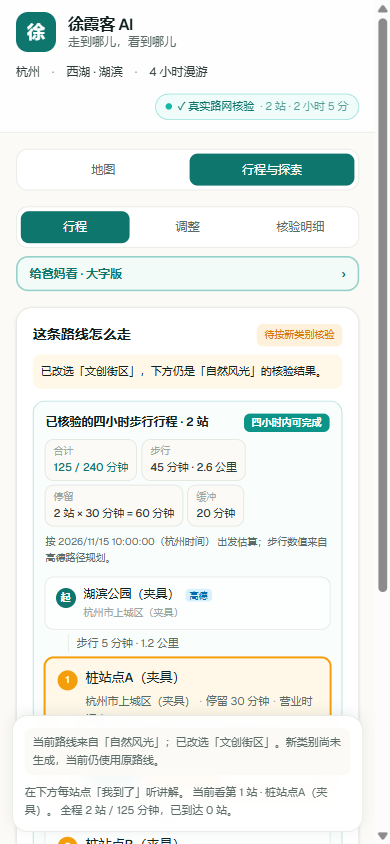
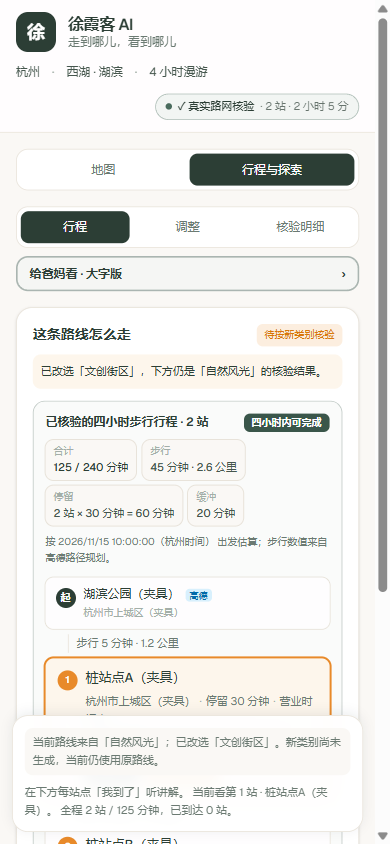
Restyle to a warm new-Chinese palette and turn the two limits into stamina meters
Colours move to rice-white paper (#FAF8F5), dai-green ink (#2C3E35) and a single
warm amber reserved for warnings — the old teal read as a generic SaaS accent
rather than something you would hand to a parent.

The adjust page no longer makes people guess from a row of presets. Two meters
now answer "how much of the budget is left" at a glance: total walking time and
the longest single stretch, each with a progress bar, the used/limit pair, and a
plain sentence. Bars only render when a limit exists — an unset limit shows a
dashed empty track instead of a misleading full bar, which is what the first
build did wrong.

Debug and data-source panels are gone from the product entirely, and the
LIVE/MOCK badges are reworded to plain Chinese; the third tab keeps only the
verification trail.

Expanded the zero-paid browser suite to 39 checks, all passing, including the
meter's presence and its no-limit behaviour.

diff --git a/src/components/StaminaMeter.tsx b/src/components/StaminaMeter.tsx
@@ -1,0 +1,132 @@
+"use client";
+
+/**
+ * 爸妈体力评估器。
+ *
+ * 把两条步行约束画成「预算 vs 已用」的进度条，而不是让人从一堆档位里猜：
+ *   - 全程：这一趟所有步行时间加起来，是否超过说的上限；
+ *   - 单段：两站之间最长的那一段，是否超过一口气能走的距离。
+ *
+ * 两个数都来自服务端实测；这里只做「用了几成」的可视化，
+ * 不自己比较超没超（超没超由服务端判定后传进来）。
+ */
+
+interface MeterProps {
+  label: string;
+  /** 一句话解释这条量的是什么 */
+  hint: string;
+  /** 当前值，单位由 unit 决定 */
+  used: number;
+  /** 上限；null 表示没设 */
+  limit: number | null;
+  unit: "分钟" | "米";
+  /** 超过上限 */
+  over: boolean;
+  /** 没用满时的一句人话 */
+  okText: string;
+  /** 超出时的一句人话 */
+  overText: string;
+}
+
+function Meter({ label, hint, used, limit, unit, over, okText, overText }: MeterProps) {
+  const ratio = limit && limit > 0 ? Math.min(used / limit, 1) : 0;
+  const percent = Math.round(ratio * 100);
+  // 余量：没设上限时不算
+  const remaining = limit !== null ? limit - used : null;
+
+  return (
+    <div className="rounded-xl border border-line bg-card p-3">
+      <div className="flex items-baseline justify-between gap-2">
+        <span className="text-[13px] font-semibold text-ink-900">{label}</span>
+        <span className={`text-[11px] font-medium ${over ? "text-accent-600" : "text-brand-600"}`}>
+          {limit === null ? "未设上限" : over ? "已超出" : `还剩 ${remaining} ${unit}`}
+        </span>
+      </div>
+      <p className="mt-0.5 text-[10.5px] leading-relaxed text-ink-500">{hint}</p>
+
+      {/* 进度条：底色是「这条预算」，实色是「已经用掉的」。
+          没设上限时不画满格——画满会让人以为已经用完了，改成一条虚线的空槽。 */}
+      {limit === null ? (
+        <div className="mt-2 h-2.5 w-full rounded-full border border-dashed border-brand-100" />
+      ) : (
+        <div
+          className="mt-2 h-2.5 w-full overflow-hidden rounded-full bg-brand-100"
+          role="progressbar"
+          aria-valuemin={0}
+          aria-valuemax={limit}
+          aria-valuenow={used}
+          aria-label={label}
+        >
+          <div
+            className={`h-full rounded-full transition-[width] duration-500 ${
+              over ? "bg-accent-600" : "bg-brand-600"
+            }`}
+            style={{ width: `${Math.max(percent, 3)}%` }}
+          />
+        </div>
+      )}
+
+      <div className="mt-1.5 flex items-baseline justify-between gap-2 text-[10.5px]">
+        <span className="text-ink-500">
+          已用 <strong className="font-semibold text-ink-900">{used}</strong> {unit}
+          {limit !== null && <> / 上限 {limit} {unit}</>}
+        </span>
+        {limit !== null && <span className="tabular-nums text-ink-300">{percent}%</span>}
+      </div>
+
+      <p className={`mt-1.5 text-[11px] leading-relaxed ${over ? "text-accent-600" : "text-ink-500"}`}>
+        {limit === null || !over ? okText : overText}
+      </p>
+    </div>
+  );
+}
+
+export function StaminaMeter({
+  usedMinutes,
+  minuteLimit,
+  usedSegmentMeters,
+  segmentLimitMeters,
+}: {
+  usedMinutes: number | null;
+  minuteLimit: number | null;
+  usedSegmentMeters: number | null;
+  segmentLimitMeters: number | null;
+}) {
+  const minutes = usedMinutes ?? 0;
+  const overMinutes = minuteLimit !== null && usedMinutes !== null && minutes > minuteLimit;
+  const segment = usedSegmentMeters ?? 0;
+  const overSegment = segmentLimitMeters !== null && usedSegmentMeters !== null && segment > segmentLimitMeters;
+
+  return (
+    <section className="space-y-2" aria-label="爸妈体力评估">
+      <Meter
+        label="全程走路"
+        hint="这一趟所有步行时间加起来"
+        used={Math.round(minutes)}
+        limit={minuteLimit}
+        unit="分钟"
+        over={overMinutes}
+        okText={
+          minuteLimit === null
+            ? "没有设上限，按最多能排的站数排。"
+            : `还有 ${Math.max(0, minuteLimit - Math.round(minutes))} 分钟余量，走得动。`
+        }
+        overText={`超出 ${Math.round(minutes) - (minuteLimit ?? 0)} 分钟，需要减站或放宽。`}
+      />
+      <Meter
+        label="一口气能走"
+        hint="两站之间最长的那一段，中间没地方歇"
+        used={Math.round(segment)}
+        limit={segmentLimitMeters}
+        unit="米"
+        over={overSegment}
+        okText={
+          segmentLimitMeters === null
+            ? "没有设上限；总量够短时一般不单独限这一段。"
+            : `最长一段 ${Math.round(segment)} 米，中途不用硬撑。`
+        }
+        overText={`最长一段要走 ${Math.round(segment)} 米，超过一口气能走的 ${segmentLimitMeters} 米。`}
+      />
+    </section>
+  );
+}

diff --git a/src/components/JourneyApp.tsx b/src/components/JourneyApp.tsx
@@ -1,8 +1,6 @@
 "use client";
 
 import { useCallback, useEffect, useMemo, useRef, useState } from "react";
-import { DataSourcePanel } from "@/components/DataSourcePanel";
-import { DebugPanel } from "@/components/DebugPanel";
 import { DiscoverPanel } from "@/components/DiscoverPanel";
 import { ElderView } from "@/components/ElderView";
 import { ExplorePanel } from "@/components/ExplorePanel";
@@ -12,10 +10,10 @@ import { NegotiationPanel } from "@/components/NegotiationPanel";
 import { PlanActionBar } from "@/components/PlanActionBar";
 import { SiteHeader } from "@/components/SiteHeader";
 import { AuditDetails, VerifiedRoutePanel } from "@/components/VerifiedRoutePanel";
+import { StaminaMeter } from "@/components/StaminaMeter";
 import { WalkLimitPanel } from "@/components/WalkLimitPanel";
 import type { VerifiedItinerary } from "@/lib/types";
 import { useAgent } from "@/hooks/useAgent";
-import { agentDataSourceNote } from "@/lib/agent";
 import { useDiscover } from "@/hooks/useDiscover";
 import { useJourney } from "@/hooks/useJourney";
 import { useMapJsConfig } from "@/hooks/useMapJsConfig";
@@ -91,6 +89,8 @@ export function JourneyApp() {
   // 已经按「这份事实集 + 这个分钟数」重解成功过的记号：「调整」页的面板刚解完会回写 preflightMinutes，
   // 没有这个记号这里会再发一次一模一样的请求。
   const resolvedKeyRef = useRef<string | null>(null);
+  /** 「一口气能走」的上限；null = 没设。评估器要靠它画第二条进度条，必须能触发重渲染。 */
+  const [segmentLimitMeters, setSegmentLimitMeters] = useState<number | null>(null);
   useEffect(() => {
     // 没回答、或答了「不确定」时不重解：核验给出的就是不设上限的最优路线，没有什么可重排的
     if (!preflightFactsId || typeof preflightMinutes !== "number") return;
@@ -310,9 +310,26 @@ export function JourneyApp() {
                     {preflightNote}
                   </p>
                 )}
+                {/* 体力评估器：两条约束的「预算 vs 已用」进度条，先给结论再给调节项 */}
+                <StaminaMeter
+                  usedMinutes={activeItinerary?.totalWalkMinutes ?? null}
+                  minuteLimit={preflightMinutes ?? null}
+                  usedSegmentMeters={
+                    activeItinerary?.legs?.length
+                      ? Math.max(...activeItinerary.legs.map((leg) => leg.distanceMeters))
+                      : null
+                  }
+                  segmentLimitMeters={segmentLimitMeters}
+                />
                 {verifiedRoute.report?.ok && verifiedRoute.report.facts?.factsId ? (
                   <WalkLimitPanel
                     factsId={verifiedRoute.report.facts.factsId}
+                    showSegmentLimit
+                    currentLongestSegmentMeters={
+                      activeItinerary?.legs?.length
+                        ? Math.max(...activeItinerary.legs.map((leg) => leg.distanceMeters))
+                        : null
+                    }
                     currentWalkMeters={activeItinerary?.totalWalkMeters ?? null}
                     currentWalkMinutes={activeItinerary?.totalWalkMinutes ?? null}
                     selectedMinutes={preflightMinutes}
@@ -323,6 +340,8 @@ export function JourneyApp() {
                       resolvedKeyRef.current = `${preflightFactsId}|${applied.maxWalkMinutes}|${applied.stayMinutes}`;
                       setPreflightMinutes(applied.maxWalkMinutes);
                       setStayMinutes(applied.stayMinutes);
+                      // 评估器的第二条进度条要靠这个上限；null 会显示成「未设上限」
+                      setSegmentLimitMeters(applied.maxSegmentMeters);
                     }}
                   />
                 ) : (
@@ -388,30 +407,6 @@ export function JourneyApp() {
             )}
           </div>
 
-          {/* 数据来源与调试面板属于「更多」：首屏不该出现技术细节 */}
-          {planPage === "advanced" && (
-            <>
-              <DataSourcePanel
-                adapterNotes={[...journey.adapterNotes, agentDataSourceNote(agent.status)]}
-              />
-              <DebugPanel
-                discover={discover}
-                verified={verifiedRoute}
-                agent={agent}
-                mapConfig={mapConfig}
-                geometryNote={geometry.note}
-                demo={
-                  activeItinerary
-                    ? {
-                        label: journey.route.label,
-                        totalMinutes: journey.route.totalMinutes,
-                        stops: journey.pois.map((poi) => ({ name: poi.name, stayMinutes: poi.stayMinutes })),
-                      }
-                    : null
-                }
-              />
-            </>
-          )}
         </div>
       </main>
 

diff --git a/src/components/VerifiedRoutePanel.tsx b/src/components/VerifiedRoutePanel.tsx
@@ -20,7 +20,7 @@ import type {
 const PHASE_BADGE: Record<VerifyPhase, { label: string; className: string }> = {
   idle: { label: "未核验", className: "bg-paper text-ink-300 ring-1 ring-line" },
   loading: { label: "核验中…", className: "bg-accent-500/15 text-accent-600" },
-  done: { label: "LIVE · 高德真实计算", className: "bg-brand-600/15 text-brand-700" },
+  done: { label: "已核验", className: "bg-brand-600/15 text-brand-700" },
   failed: { label: "核验失败", className: "bg-red-500/10 text-red-600" },
 };
 
@@ -127,7 +127,7 @@ export function VerifiedRoutePanel({
             </p>
           ) : routeAdjusted ? (
             <p className="mt-3 rounded-lg bg-accent-500/10 px-2.5 py-2 text-[11px] leading-relaxed text-accent-700">
-              以下是按你定的条件（全程能走多久、每站停留多久）重新排的当前生效路线，与地图一致；原始核验记录保留在「更多」页的调试面板里。
+              以下是按你定的条件（全程能走多久、每站停留多久）重新排的当前生效路线，与地图一致；原始核验记录保留在「核验明细」页。
             </p>
           ) : null}
           <Itinerary itinerary={shownItinerary} selectedStopId={selectedStopId} arrivedStopIds={arrivedStopIds} onSelectStop={onSelectStop} agent={agent} toilets={report?.toilets} />

diff --git a/src/components/DiscoverPanel.tsx b/src/components/DiscoverPanel.tsx
@@ -10,9 +10,9 @@ import type {
 const PHASE_BADGE = {
   idle: { label: "未调用", className: "bg-paper text-ink-300 ring-1 ring-line" },
   loading: { label: "调用中…", className: "bg-accent-500/15 text-accent-600" },
-  live: { label: "LIVE · 飞猪真实返回", className: "bg-brand-600/15 text-brand-700" },
+  live: { label: "真实数据", className: "bg-brand-600/15 text-brand-700" },
   failed: { label: "调用失败", className: "bg-red-500/10 text-red-600" },
-  mock: { label: "MOCK · 演示数据", className: "bg-accent-500/15 text-accent-600" },
+  mock: { label: "演示数据", className: "bg-accent-500/15 text-accent-600" },
 } as const;
 
 /** 一屏里最多摊开几张候选卡片，剩下的收起来，免得把主流程挤出首屏。 */
@@ -123,7 +123,7 @@ export function DiscoverPanel({
             onClick={discover.fallbackToMock}
             className="mt-2 rounded-lg border border-line bg-card px-2.5 py-1.5 text-[11px] font-medium text-ink-700 transition hover:bg-paper"
           >
-            改用演示数据（会明确标记为 Mock）
+            改用演示数据（会明确标注「演示数据」）
           </button>
         </div>
       )}

diff --git a/src/app/globals.css b/src/app/globals.css
@@ -1,24 +1,25 @@
 @import "tailwindcss";
 
 @theme {
-  --color-brand-50: #effcf9;
-  --color-brand-100: #ccf5ee;
-  --color-brand-500: #14b8a6;
-  --color-brand-600: #0d9488;
-  --color-brand-700: #0f766e;
+  /* 新中式温润：黛青作主色，米白作底，暖琥珀只用于强调 */
+  --color-brand-50: #f2f5f3;
+  --color-brand-100: #e2e9e5;
+  --color-brand-500: #4a6b5d;
+  --color-brand-600: #3a564a;
+  --color-brand-700: #2c3e35;
 
-  --color-accent-50: #fff8e8;
-  --color-accent-500: #f59e0b;
+  --color-accent-50: #fdf6ec;
+  --color-accent-500: #e88a2a;
   --color-accent-600: #d97706;
 
-  --color-ink-900: #10201e;
-  --color-ink-700: #2c3b39;
-  --color-ink-500: #5b6b68;
-  --color-ink-300: #9aa8a5;
+  --color-ink-900: #2c3e35;
+  --color-ink-700: #45564d;
+  --color-ink-500: #6b7a72;
+  --color-ink-300: #a3aea8;
 
-  --color-paper: #fbfaf7;
+  --color-paper: #faf8f5;
   --color-card: #ffffff;
-  --color-line: #e6e8e2;
+  --color-line: #e8e3da;
 
   --font-sans:
     var(--font-geist-sans), "PingFang SC", "Hiragino Sans GB", "Microsoft YaHei",

diff --git a/src/components/AgentPanel.tsx b/src/components/AgentPanel.tsx
@@ -7,9 +7,9 @@ import type { AgentNarration, ExploreResponse } from "@/lib/types";
 const PHASE_BADGE = {
   idle: { label: "未调用", className: "bg-paper text-ink-300 ring-1 ring-line" },
   loading: { label: "调用中…", className: "bg-accent-500/15 text-accent-600" },
-  done: { label: "LIVE · 百炼真实返回", className: "bg-brand-600/15 text-brand-700" },
+  done: { label: "已生成", className: "bg-brand-600/15 text-brand-700" },
   restored: {
-    label: "LIVE · 刷新前那一次",
+    label: "上次生成的那一次",
     className: "bg-brand-600/10 text-brand-700 ring-1 ring-brand-100",
   },
 } as const;

diff --git a/src/components/NegotiationPanel.tsx b/src/components/NegotiationPanel.tsx
@@ -97,7 +97,7 @@ function ExplainCard({
         <div className="mt-2 space-y-2">
           <div className="flex flex-wrap items-center gap-2">
             <span className="rounded bg-emerald-100 px-1.5 py-0.5 text-[10px] font-medium text-emerald-800">
-              LIVE · 百炼真实返回
+              已生成
             </span>
             {explanation.proof ? (
               <span className="text-[10px] text-ink-500">
